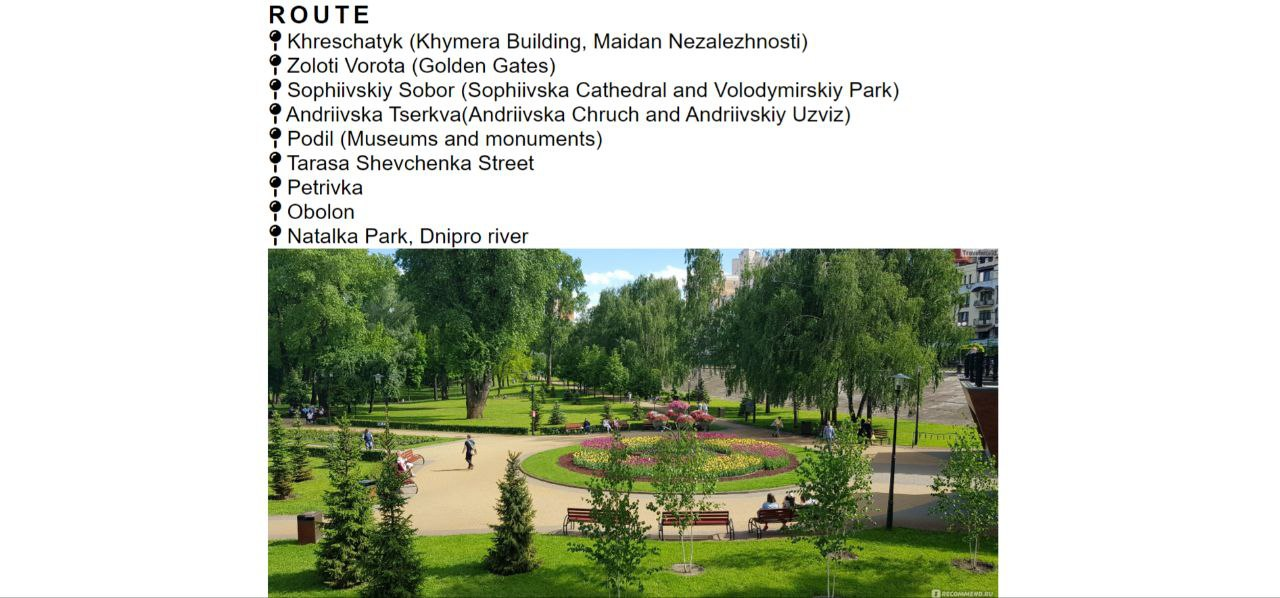
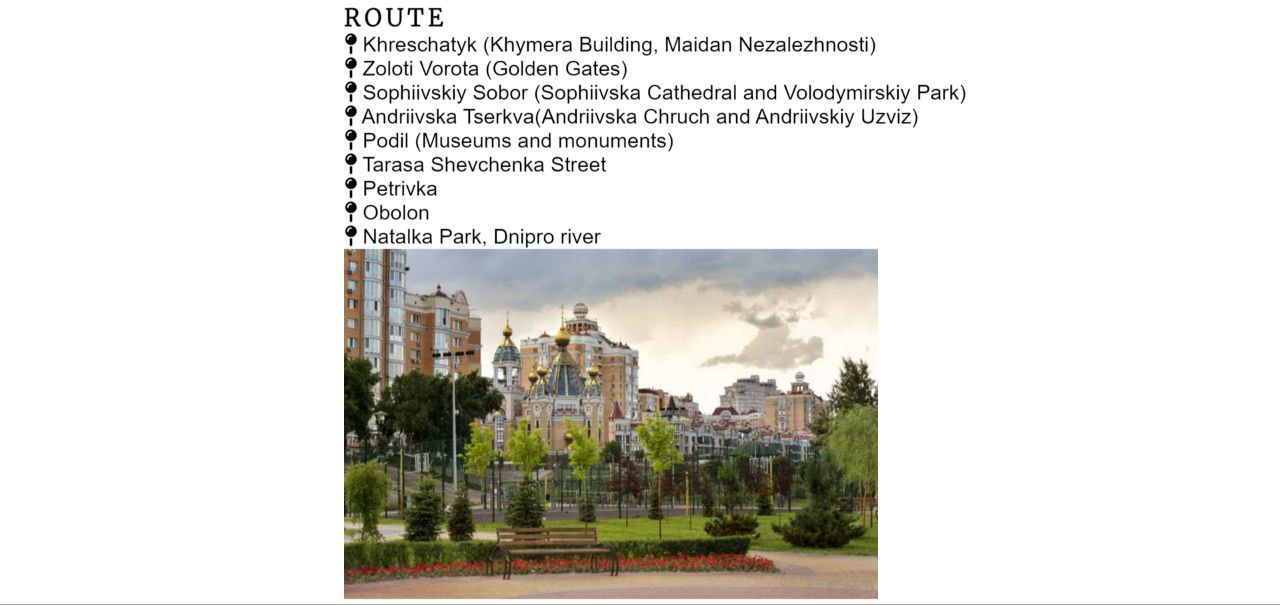
Change picture for routes in readme.md

diff --git a/assets/css/style.css b/assets/css/style.css
@@ -88,8 +88,6 @@ h2 {
   padding: 10px;
   padding-top: 40px;
   color: white;
-  -webkit-text-stroke-width: 1px;
-  -webkit-text-stroke-color: black;
 }
 
 /*Styling route destinations and image of the final destination*/
@@ -291,7 +289,6 @@ input[type=email] {
     font-size: 3vw;
     padding: 10px;
     padding-top: 50px;
-    -webkit-text-stroke-width: 1.5px;
   }
 
   #navigation li {
@@ -330,7 +327,6 @@ input[type=email] {
 
   #about-us {
     font-size: 20px;
-    -webkit-text-stroke-width: 1px;
   }
 
   #routes {
@@ -371,10 +367,6 @@ input[type=email] {
   #navigation li {
     font-size: 15px;
     margin-right: 14px;
-  }
-
-  #about-us {
-    -webkit-text-stroke-width: 0px;
   }
 
   form label {

diff --git a/index.html b/index.html
@@ -18,7 +18,6 @@
     <nav id="navigation">
       <ul>
         <li><a href="#contact-us">Contact Us</a></li>
-        <li><a href="#signup-form">Sign Up</a></li>
         <li><a href="#times">Meet Up Time</a></li>
         <li><a href="#routes">Tour</a></li>
         <li><a href="#home">Home</a></li>
